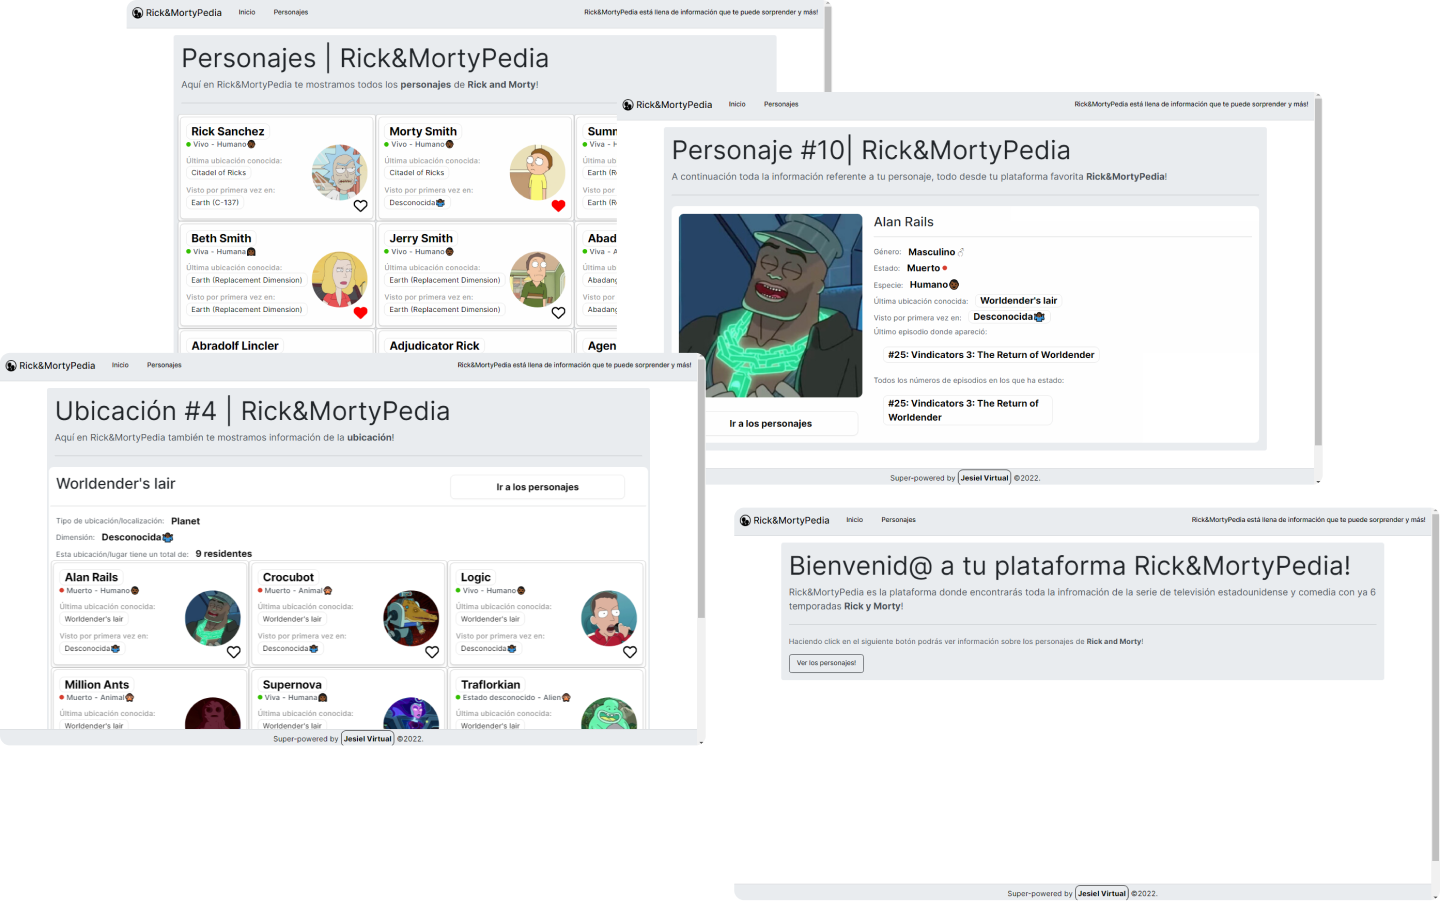
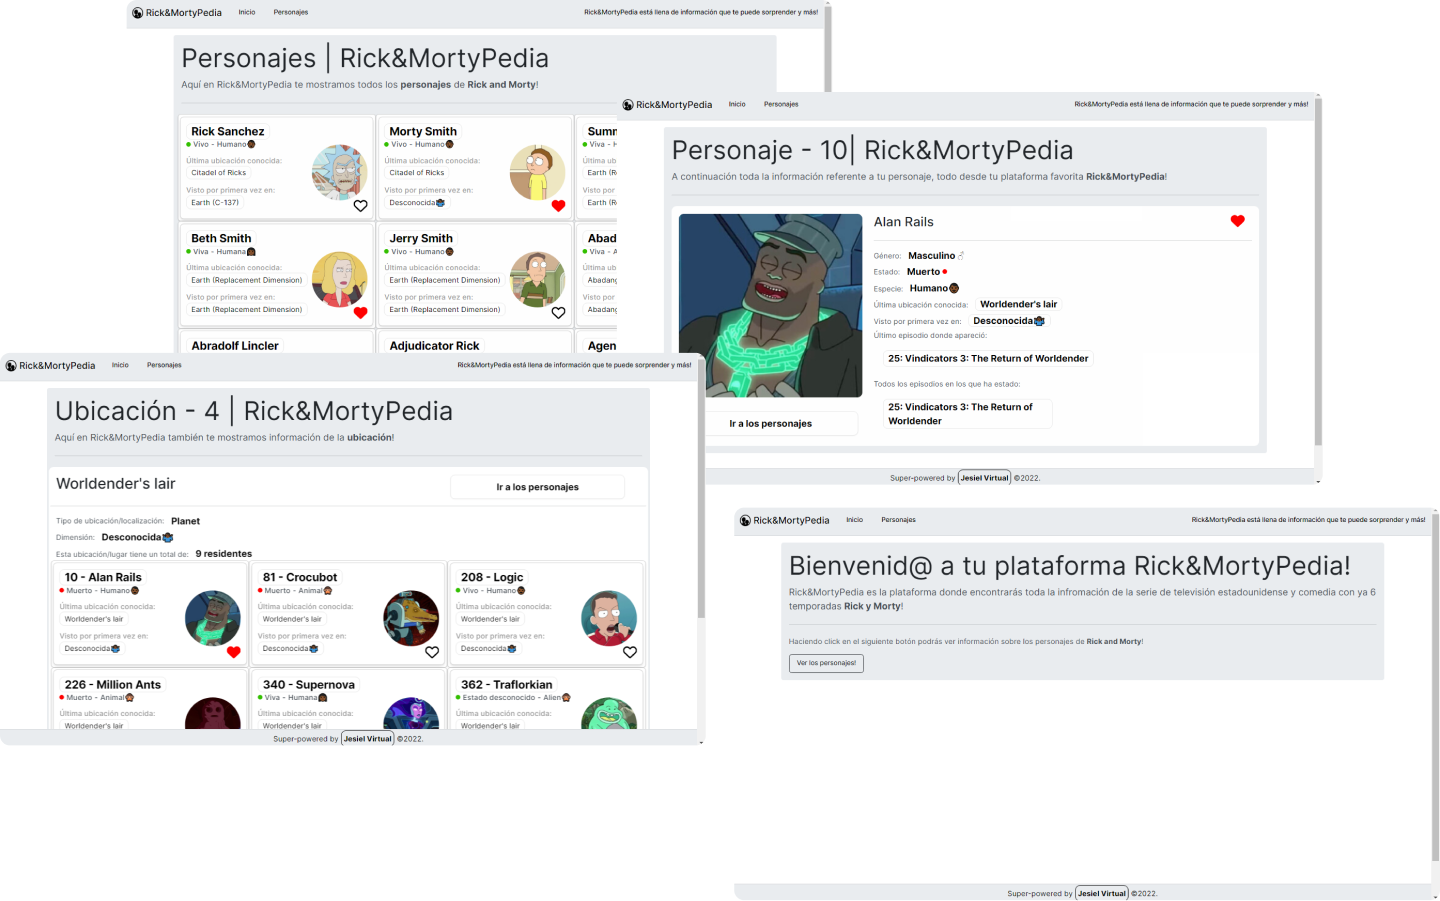
Adds latest changes

diff --git a/src/app/components/character/character.component.html b/src/app/components/character/character.component.html
@@ -1,6 +1,6 @@
 <main class="jumbotron">
   <section class="animated fadeIn">
-    <h2 class="display-4">Personaje #{{id}}| Rick&MortyPedia</h2>
+    <h2 class="display-4">Personaje - {{id}}| Rick&MortyPedia</h2>
     <p class="lead">A continuación toda la información referente a tu personaje, todo desde tu plataforma
       favorita <b>Rick&MortyPedia</b>!</p>
     <hr class="my-4">
@@ -12,11 +12,18 @@
           <img src="{{character.image}}" alt="" srcset="" class="img-fluid">
         </div>
         <a [routerLink]="['/personajes']" class="btn btn-outline-dark btn-block">Ir a los personajes</a>
-
       </div>
 
       <div class="col-md-8">
-        <h3>{{character.name}}</h3>
+        <div class="row">
+          <div class="col-md-11">
+            <h3>{{character.name}}</h3>
+          </div>
+
+          <div class="col-md-1">
+            <app-fav [character]="character"></app-fav>
+          </div>
+        </div>
         <hr>
         <div class="flex flex-dir-col">
 
@@ -42,23 +49,23 @@
 
           <div class="character-info">
             Visto por primera vez en:
-            <a routerLink="/{{character.origin.url | characterLocationUrl}}" class="capitalize">{{character.origin.name |
-              characterLocation}}</a>
+            <a routerLink="/{{character.origin.url | characterLocationUrl}}" class="capitalize">{{character.origin.name
+              | characterLocation}}</a>
           </div>
 
           <div class="character-info">
             Último episodio donde apareció:
             <span class="link">
-              #{{episodesData | characterLastEpisode: 'id'}}:
+              {{episodesData | characterLastEpisode: 'id'}}:
               {{episodesData| characterLastEpisode: 'name'}}
             </span>
           </div>
 
           <div class="character-info">
-            Todos los números de episodios en los que ha estado:
+            Todos los episodios en los que ha estado:
             <div class="character-info grid">
               <a class="link" *ngFor="let episode of character.episode">
-                #{{episodesData | characterEpisodes: 'id' :episode}}:
+                {{episodesData | characterEpisodes: 'id' :episode}}:
                 {{episodesData| characterEpisodes: 'name' :episode}}
               </a>
             </div>

diff --git a/src/app/components/location/location.component.html b/src/app/components/location/location.component.html
@@ -1,6 +1,6 @@
 <main class="jumbotron">
   <section class="animated fadeIn">
-    <h2 class="display-4">Ubicación #{{id}} | Rick&MortyPedia</h2>
+    <h2 class="display-4">Ubicación - {{id}} | Rick&MortyPedia</h2>
     <p class="lead">Aquí en Rick&MortyPedia también te mostramos información de la <b>ubicación</b>!</p>
   </section>
   <hr class="my-4">
@@ -31,10 +31,18 @@
 
         <div>
           Esta ubicación/lugar tiene un total de: <span>{{characters.length}} residentes</span>
-          <section class="wrapper animated fadeIn fast">
-            <app-character-card *ngFor="let character of characters" [character]="character" class="card">
-            </app-character-card>
-          </section>
+          <div *ngIf="length > -1">
+            <section class="wrapper animated fadeIn fast">
+              <app-character-card *ngFor="let character of characters" [character]="character" class="card">
+              </app-character-card>
+            </section>
+          </div>
+          <div *ngIf="!length">
+            <section class="wrapper animated fadeIn fast">
+              <app-character-card [character]="characters" class="card">
+              </app-character-card>
+            </section>
+          </div>
 
         </div>
       </div>

diff --git a/src/app/components/character-card/character-card.component.html b/src/app/components/character-card/character-card.component.html
@@ -1,7 +1,7 @@
 <article class="card">
   <div class="character-info">
     <div class="divider">
-      <h2><a routerLink="/personaje/{{character.id}}"><b>{{character.name}}</b></a></h2>
+      <h2><a routerLink="/personaje/{{character.id}}"><b>{{character.id}} - {{character.name}}</b></a></h2>
       <span class="status-indicator-info">
         <b [ngClass]="character.status | characterStatusIcon"></b>
         <span>{{character.status | characterStatus: character.gender}}</span> -
@@ -28,13 +28,5 @@
     </div>
   </a>
 
-  <span (click)="addFav(character.id, character.name)" class="icon" aria-label="Fav Character" role="img">
-
-    <img *ngIf="!isFav(character.id)" src="../../../assets/heart-regular.svg"
-      alt="Icon that mean you like this character, click for like" role="svg" srcset="">
-
-    <img *ngIf="isFav(character.id)" src="../../../assets/heart-solid.svg"
-      alt="iIon that mean you don't like this character, click for unlike" srcset="">
-
-  </span>
+  <app-fav [character]="character" class="icon-position"></app-fav>
 </article>

diff --git a/src/app/components/character-card/character-card.component.ts b/src/app/components/character-card/character-card.component.ts
@@ -1,4 +1,3 @@
-import { CharactersService } from 'src/app/services/characters.service';
 import { Character } from 'src/app/model/character';
 import { Component, Input, OnInit } from '@angular/core';
 
@@ -8,24 +7,9 @@ import { Component, Input, OnInit } from '@angular/core';
   styleUrls: ['./character-card.component.css'],
 })
 export class CharacterCardComponent implements OnInit {
-  toggle: boolean = true;
-  @Input('character') character: Character = <Character>{};
+  @Input() character: any = {};
 
-  constructor(private _charactersService: CharactersService) {}
+  constructor() {}
 
   ngOnInit(): void {}
-
-  addFav(key: any, value: any) {
-    if (this.toggle) {
-      this._charactersService.saveFav(key, value);
-      this.toggle = !this.toggle;
-    } else {
-      this._charactersService.removeFav(key);
-      this.toggle = !this.toggle;
-    }
-  }
-
-  isFav(key: any) {
-    return this._charactersService.getFav(key);
-  }
 }

diff --git a/src/app/components/shared/fav/fav.component.ts b/src/app/components/shared/fav/fav.component.ts
@@ -1,0 +1,32 @@
+import { CharactersService } from 'src/app/services/characters.service';
+import { Character } from 'src/app/model/character';
+import { Component, Input, OnInit } from '@angular/core';
+
+@Component({
+  selector: 'app-fav',
+  templateUrl: './fav.component.html',
+  styleUrls: ['./fav.component.css'],
+})
+export class FavComponent implements OnInit {
+  toggle: boolean = true;
+
+  @Input() character: Character = <Character>{};
+
+  constructor(private _charactersService: CharactersService) {}
+
+  ngOnInit(): void {}
+
+  addFav(key: any, value: any) {
+    if (this.toggle) {
+      this._charactersService.saveFav(key, value);
+      this.toggle = !this.toggle;
+    } else {
+      this._charactersService.removeFav(key);
+      this.toggle = !this.toggle;
+    }
+  }
+
+  isFav(key: any) {
+    return this._charactersService.getFav(key);
+  }
+}

diff --git a/src/app/components/location/location.component.ts b/src/app/components/location/location.component.ts
@@ -10,10 +10,10 @@ import { Character } from 'src/app/model/character';
   styleUrls: ['./location.component.css'],
 })
 export class LocationComponent implements OnInit {
-  id: Number = 1;
+  id: Number = 2;
   characters = new Array<Character>();
   location: Location = <Location>{};
-  // charactersLength = this.characters.length;
+  length: Number = 0;
 
   constructor(
     private activatedRoute: ActivatedRoute,
@@ -30,7 +30,9 @@ export class LocationComponent implements OnInit {
           this._charactersService
             .getMultipleCharactersById(this.location.residents)
             .subscribe((data) => {
+              // console.log(data)
               this.characters = data;
+              this.length = this.characters.length;
             });
         });
     });

diff --git a/src/app/app.module.ts b/src/app/app.module.ts
@@ -17,6 +17,7 @@ import { FooterComponent } from './components/shared/footer/footer.component';
 import { CharacterComponent } from './components/character/character.component';
 import { LocationComponent } from './components/location/location.component';
 import { CharacterCardComponent } from './components/character-card/character-card.component';
+import { FavComponent } from './components/shared/fav/fav.component';
 
 // Pipes
 import {
@@ -41,6 +42,7 @@ import {
     FooterComponent,
     LocationComponent,
     CharacterCardComponent,
+    FavComponent,
     // Pipes
     CharacterStatusIconPipe,
     CharacterStatusPipe,

diff --git a/src/app/components/shared/fav/fav.component.spec.ts b/src/app/components/shared/fav/fav.component.spec.ts
@@ -1,0 +1,23 @@
+import { ComponentFixture, TestBed } from '@angular/core/testing';
+
+import { FavComponent } from './fav.component';
+
+describe('FavComponent', () => {
+  let component: FavComponent;
+  let fixture: ComponentFixture<FavComponent>;
+
+  beforeEach(async () => {
+    await TestBed.configureTestingModule({
+      declarations: [ FavComponent ]
+    })
+    .compileComponents();
+
+    fixture = TestBed.createComponent(FavComponent);
+    component = fixture.componentInstance;
+    fixture.detectChanges();
+  });
+
+  it('should create', () => {
+    expect(component).toBeTruthy();
+  });
+});

diff --git a/src/app/components/shared/fav/fav.component.html b/src/app/components/shared/fav/fav.component.html
@@ -1,0 +1,9 @@
+<span (click)="addFav(character.id, character.name)" class="icon" aria-label="Fav Character" role="img">
+
+  <img *ngIf="!isFav(character.id)" src="../../../assets/heart-regular.svg"
+    alt="Icon that mean you like this character, click for like" role="svg" srcset="">
+
+  <img *ngIf="isFav(character.id)" src="../../../assets/heart-solid.svg"
+    alt="iIon that mean you don't like this character, click for unlike" srcset="">
+
+</span>

diff --git a/src/app/components/character-card/character-card.component.css b/src/app/components/character-card/character-card.component.css
@@ -1,4 +1,3 @@
-
 article {
   position: relative;
   width: 416px;
@@ -128,16 +127,8 @@ article > a:last-of-type img:hover {
   border: 1px solid rgba(60, 60, 60, 0.6);
 }
 
-.icon {
+.icon-position {
   position: absolute;
   right: 0.75rem;
   top: 11rem;
-  color: #000;
-  cursor: pointer;
-  transition: all 1s cubic-bezier(0.075, 0.82, 0.165, 1) 0s;
-  z-index: 999;
-}
-
-.icon img {
-  height: 30px;
 }

diff --git a/src/app/components/character/character.component.ts b/src/app/components/character/character.component.ts
@@ -11,7 +11,7 @@ import { Episode } from 'src/app/model/episode';
 })
 export class CharacterComponent implements OnInit {
   character: Character = <Character>{};
-  id: Number = 6;
+  id: Number = 10;
   lastEpisodeData: Episode = <Episode>{};
   episodesData = new Array<Episode>();
 

diff --git a/src/app/components/shared/fav/fav.component.css b/src/app/components/shared/fav/fav.component.css
@@ -1,0 +1,10 @@
+.icon {
+  color: #000;
+  cursor: pointer;
+  transition: all 1s cubic-bezier(0.075, 0.82, 0.165, 1) 0s;
+  z-index: 999;
+}
+
+.icon img {
+  height: 30px;
+}
